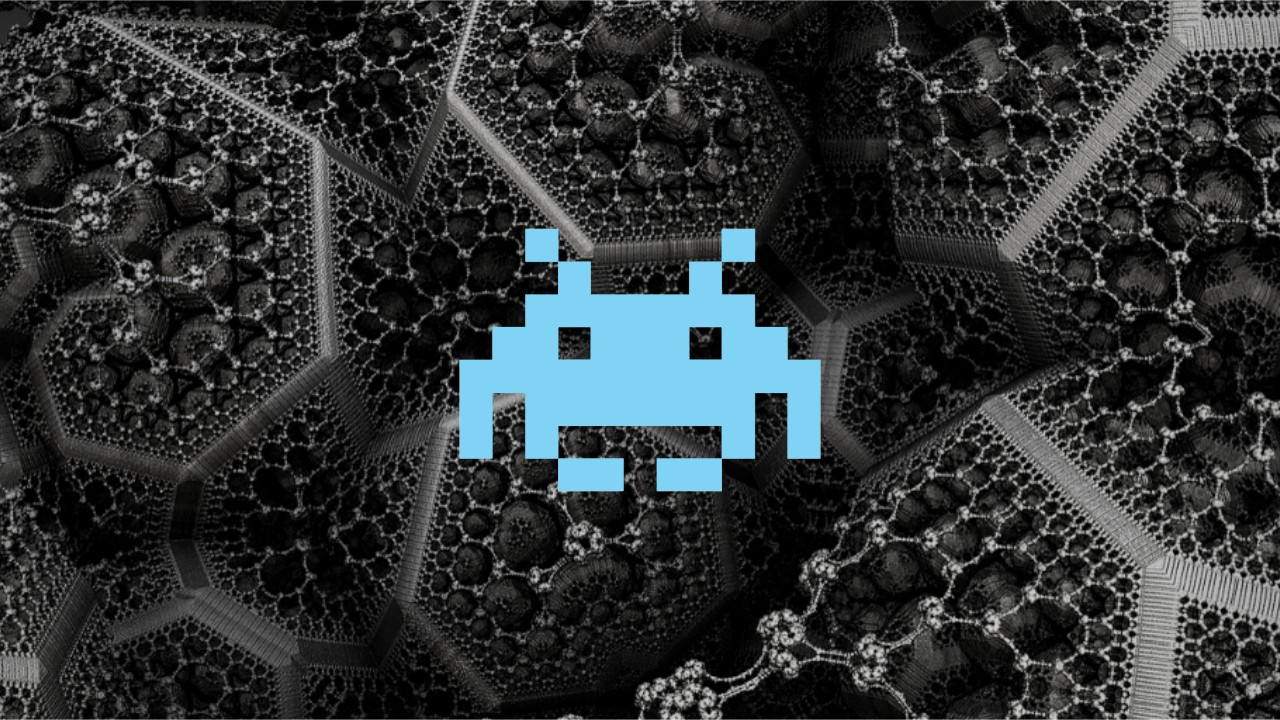
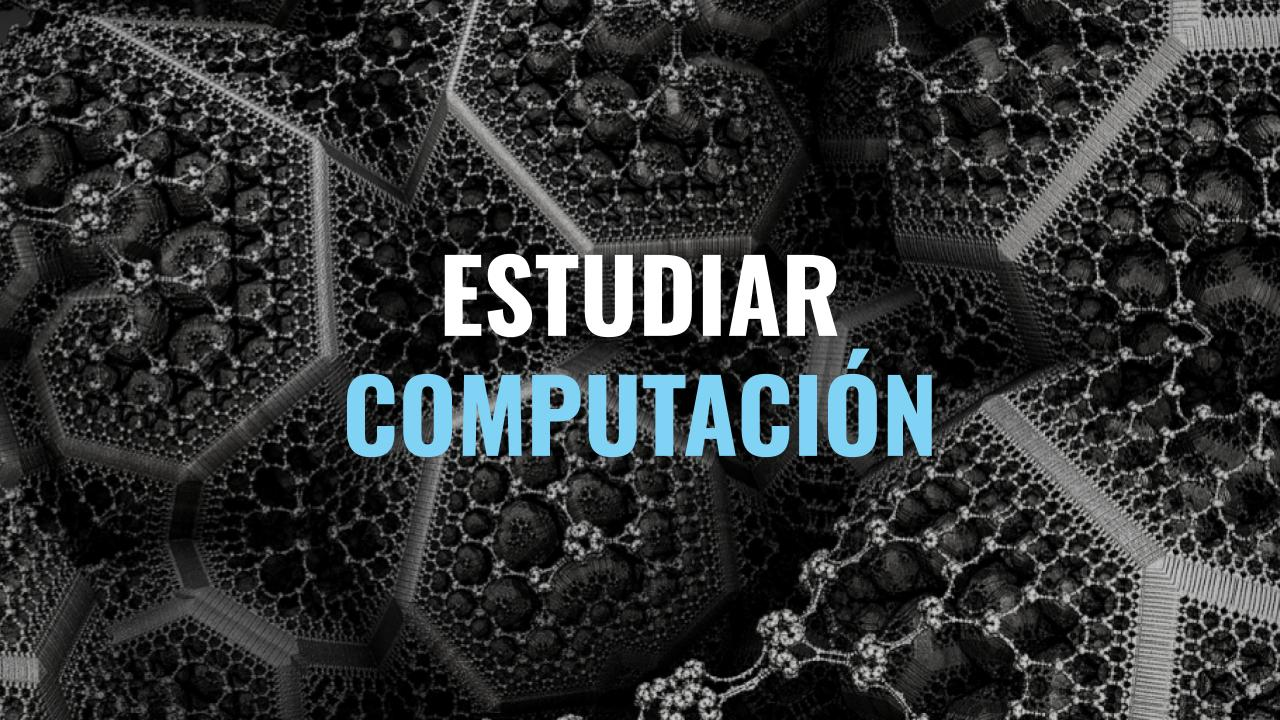
new images and simplification of notes

Changed region(s): [[0.25, 0.3056, 0.75, 0.7028], [0.3438, 0.0, 0.375, 0.0306]]

diff --git a/_posts/2019-01-07-Programar.md b/_posts/2019-01-07-Programar.md
@@ -12,55 +12,9 @@ canonical: https://marianoog.github.io
 
 Empezar a programar suena como algo imposible y muy complicado si nunca lo has hecho. Sin embargo, en mi opinión, se convertirá en una habilidad básica para trabajar en cualquier industria. Aquí lo bueno y lo malo de ser programador.
 
-## ¿Por qué programar?
-
-A partir de ahora no importa la industria de la que te dediques vas a tener que al menos que entender cómo funciona un programa. No creo que todo el mundo tenga que volverse programador pero sí tener las nociones básicas de qué se puede hacer, que no se puede hacer y cómo funcionan las cosas. Esto nos va a ayudar a entender y aprovechar de la mejor forma posible la tecnología a la que tenemos acceso, saber cuáles son sus opciones y limitantes. También nos ayuda a mejorar nuestra productividad o incluso a tener noción de que si nuestro trabajo puede ser programable, ya que si lo es en algún momento ya no tendremos trabajo.
-
-## ¿Cuáles son las ventajas y desventajas de programar?
-
-### Es como resolver acertijos
-
-Programar es como resolver pequeños acertijos, uno detrás de otro. Es descubrir cómo hacer algo de forma automática. Ya que descubres eso, llega el desafío de hacerlo más rápido, más eficiente, más intuitivo, más bonito o más visual y más entendible. Combinar este tipo de cosas con código es muy entretenido y satisfactorio, al menos para mí. Ya que a pesar de existen demasiadas opciones para hacerlo, tú vas a encontrar aquella que cumple con los requerimientos del proyecto pero también refleja tu experiencia personal y tu proceso de resolución de problemas. Eso, a mi parecer, es una muestra de creatividad e ingenio constante.
-
-### Te hace pensar en la experiencia del usuario
-
-Uno de los retos de programar llega cuando otra persona utiliza tu programa. Yo creo que tal vez esa es la parte más complicada de todo. Los usuarios utilizarán el resultado de tu trabajo. Y tal vez otros programadores agregarán características a lo que tú hiciste previamente. Puedes hacer algo súper complejo con miles de características y funciones pero si al final no eres capaz de transmitir su funcionamiento a alguien más, lo que hiciste es más bien inútil. A veces se piensa que el programa es muy sencillo de usar pero te das cuenta que has cometido muchos errores por no tomar en cuenta el pequeño detalle de que no solo tú lo vas a usar. Por muchas cosas que pueda hacer tu programa si nadie lo entiende no sirve para nada. Lo cual lleva a un nuevo problema: descubrir como las personas siguen instrucciones y como el diseño puede ayudar a describir el funcionamiento de tu programa. Y sobre eso aún hay mucho que descubrir.
-
-### Debes documentar tus programas
-
-En relación con el punto anterior llega el tedio de documentar. En algún momento te das cuenta de lo mucho que has hecho y de todos sus detalles. Ahora, tienes que escribir todo eso para explicarlo en un documento. Honestamente es la parte que menos me gusta de programar. Al final vale la pena y es necesaria. Si utilizas o agregas características al proyecto de alguien más siempre aprecias que este bien documentado para saber exactamente que hizo y porqué. Eso no solo te ahorra mucho tiempo sino que también es una herramienta de aprendizaje. Por eso, aunque sea muy tedioso siempre procuro comentar, dejar algunas notas y de ser posible un pequeño manual de uso con instrucciones.
-
-### Te ayuda a incrementar tu productividad
-
-También me gusta mucho el hecho de que programar puede incrementar tu productividad. Si realizas alguna tarea repetitiva y que se realice de forma constante, lo más seguro es que se pueda programar. Por ejemplo, generar un reporte o analizar tus finanzas. Un programa puede hacerlo por ti y, no solo eso, generalmente lo hará más rápido y con menos errores. Si delegas el tedio a una maquina puedes dedicarte a otras labores más sociales o creativas. Sí alguna vez has hecho macros en Excel tú entiendes lo que me refiero.
-
-### Entender cómo funcionan las cosas
-
-También me gusta mucho que gracias a que sabes un poco de programación tienes cierta noción de cómo funcionan las cosas. Por ejemplo en una página web, las redes sociales o alguna app. Entiendes como es que algunas de esas características funcionan y también porque fallan. Incluso en ciertos puntos puedes tener ideas sobre cómo replicar un resultado similar.
-
-### Es un trabajo de escritorio
-
-Cuando están pensando en cómo resolver un problema o como programar cierta característica puedes estar en cualquier lugar pero al final la mayoría de tu trabajo ocurre en un escritorio frente a la computadora. Si eso no te atrae para nada o no lo soportas, tal vez la programación no sea para tí.
-
-### Puede ser un trabajo remoto
-
-Un programa lo puedes hacer en cualquier lugar, en cualquier computadora (que tenga los programas y las herramientas que necesitas) pero no necesitas estar físicamente en el mismo lugar que tu cliente. Eso te abre muchas posibilidades, muchos clientes nuevos incluso de otras nacionalidades. Eso viene con varias desventajas y ventajas pero ya hablaremos en otra ocasión sobre ello.
-
-### Beneficios económicos
-
-Programar, al menos por ahora, es un buen trabajo económicamente hablando. La demanda es más grande que la oferta en varias áreas lo cual incrementa los salarios. Eso sí, como en muchas otras industrias, tendrás que dedicarte a algo más específico para ganar más. Ya que lo básico muchas personas pueden ofrecerlo y eso mismo lo vuelve más barato. Puede ser bases de datos, aplicaciones para móvil, inteligencia artificial, ciencia de datos o lo que quieras pero procura tener un extra no tan común en tu repertorio. Yo siento que primero debe de gustarte programar. El beneficio económico no va a cambiar el hecho de que te la vas a pasar estresado y aburrido frente a una computadora si no lo disfrutas.
-
-### Correspondencia con la ciencia (y los videojuegos)
-
-También que me gusta mucho en programación es que combina muy bien otras áreas como puede ser la ingeniería, matemáticas, ciencia e  incluso los videojuegos. Eso te hace conocer otras cosas, que si bien están relacionadas a la programación forman parte de otras áreas. Eso me ayuda mucho a no sentirme atascado, a seguir creciendo y aprendiendo nuevas cosas todo el tiempo.
-
-### Tener pensamiento algorítmico y abstracto
-
-Esto es abrumador en ocasiones pero también muy útil. Necesitas un pensamiento algorítmico para tener noción de que pasos vas a seguir para poder terminar el problema actual. Necesitas un pensamiento abstracto para no solo resolver un caso específico de ese problema sino poder abarcar tantas opciones como sea posible, volverlo más robusto. Esto solo se consigue con la práctica y el estudio y siempre se puede continuar mejorando. En lo particular me gusta mucho porque una vez que adquieres esa habilidad puedes aplicarlo a otras áreas de tu vida.
-
 ## ¿Cómo empezar a programar?
 
-Ya hablamos de lo bueno y lo malo, pero ¿Cómo empezamos a programar? Buscamos en línea y solo encontramos un montón de letras que no tienen sentido: C, C++, PHP, HTML, CSS, Python, Java, Javascript (¿No son lo mismo?). Al principio esa lista sin fin de letras y acrónimos nos puede parecer muy confuso.
+En el episodio ya hablamos de lo bueno y lo malo, pero ¿Cómo empezamos a programar? Buscamos en línea y solo encontramos un montón de letras que no tienen sentido: C, C++, PHP, HTML, CSS, Python, Java, Javascript (¿No son lo mismo?). Al principio esa lista sin fin de letras y acrónimos nos puede parecer muy confuso.
 
 En opinión yo creo que importa más saber qué es lo que quieres crear. ¿Páginas web? ¿Aplicaciones para móvil? ¿Videojuegos? ¿Programas personales para incrementar la productividad en tu negocio? Después que lo hayas decidido podrás investigar cuales herramientas existen para hacer eso que tú quieres. De esa forma no solo aprenderás a programar sino que tendrás algo directamente relacionado con lo que quieres desarrollar y podrás empezar a crear ese proyecto que tienes en mente desde el principio.
 
